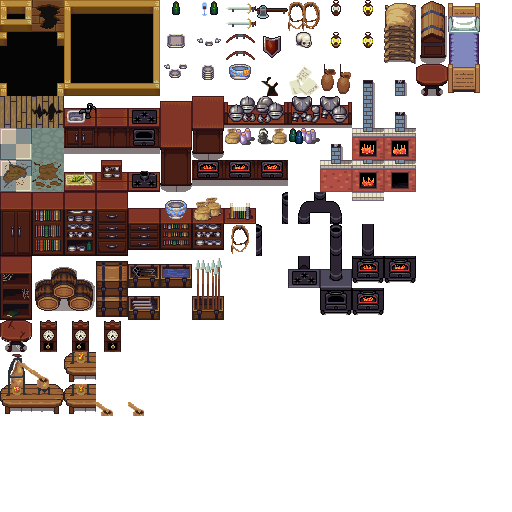
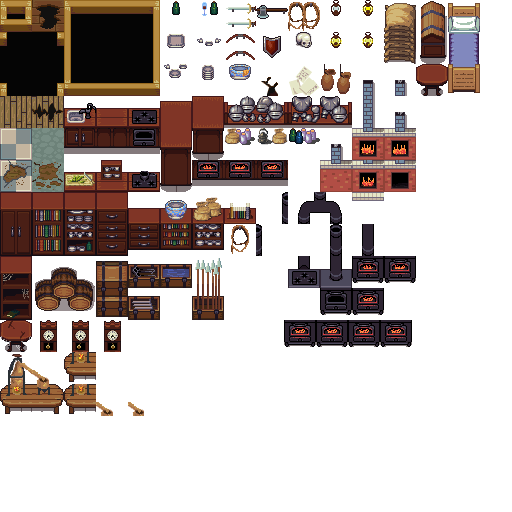
more studd

Changed region(s): [[0.5312, 0.625, 0.8125, 0.6875]]

diff --git a/js/Game.js b/js/Game.js
@@ -2,8 +2,23 @@ var BurgerBarrage = BurgerBarrage || {};
 
 BurgerBarrage.Game = function(){};
 
-const spaceBarListener = 
+const startingInventory = {
+  uncookedMeat: false,
+  lettuce: false,
+  cheese: false,
+  ketchup: false,
+  bun: false,
+  cookedMeat: false,
+  cookPercent: 0
+};
 
+const generateBool = () => {
+  if (Math.round(Math.random())) {
+    return true;
+  } else {
+    return false;
+  }
+}
 BurgerBarrage.Game.prototype = {
   create: function(){
     this.map = this.game.add.tilemap('map');
@@ -12,15 +27,27 @@ BurgerBarrage.Game.prototype = {
     this.blockedLayer = this.map.createLayer('blockedLayer');
     this.map.setCollisionBetween(1, 200, true, 'blockedLayer');
     this.backgroundLayer.resizeWorld();
-    this.inventory = {};
+    //starting goal
+    this.goal = {}
+    this.generateGoal();
+    //points
+    this.points = 0;
+    //initialize inventory
+    
+    this.inventory = {...startingInventory};
     //create items
-    this.createItems()
+    this.createItems();
     
     //create hole
     const holeObj = this.findObjectsByType('hole', this.map, 'objectsLayer');
     this.hole = this.game.add.sprite(holeObj[0].x - 12, holeObj[0].y - 34, 'hole');
     this.game.physics.arcade.enable(this.hole);
-    console.log(this.hole);
+
+    //create stove
+    const stoveObj = this.findObjectsByType('stove', this.map, 'objectsLayer');
+    this.stove = this.game.add.sprite(stoveObj[0].x, stoveObj[0].y, 'stove');
+    this.game.physics.arcade.enable(this.stove);
+
 
     //player
     const playerObj = this.findObjectsByType('playerStart', this.map, 'objectsLayer');
@@ -35,7 +62,6 @@ BurgerBarrage.Game.prototype = {
     //create items
     this.items = this.game.add.group();
     this.items.enableBody = true;
-    let item;    
     let result = this.findObjectsByType('item', this.map, 'objectsLayer');
     result.forEach(function(element){
       this.createFromTiledObject(element, this.items);
@@ -59,30 +85,34 @@ BurgerBarrage.Game.prototype = {
   },
   update: function(){
     //Movement
-    this.player.body.velocity.y = 0;
-    this.player.body.velocity.x = 0;
+    let speedX = 0;
+    let speedY = 0;
     if (this.cursors.up.isDown) {
-      this.player.body.velocity.y -= 100;
+      speedY -= 100;
     }
     if (this.cursors.down.isDown) {
-      this.player.body.velocity.y += 100;
+      speedY += 100;
     }
     if (this.cursors.left.isDown) {
-      this.player.body.velocity.x -= 100;
+      speedX -= 100;
     }
     if (this.cursors.right.isDown) {
-      this.player.body.velocity.x += 100;
+      speedX += 100;
     }
+    
     if (this.cursors.space.isDown) {
-      this.player.body.velocity.y *= 2;
-      this.player.body.velocity.x *= 2;
+      //Power up!!!!
     }
+    this.player.body.velocity.y = speedY * multiplier;
+    this.player.body.velocity.x = speedX * multiplier;
     //player collision
     this.game.physics.arcade.collide(this.player, this.blockedLayer);
     //Pickup items
     this.game.physics.arcade.overlap(this.player, this.items, this.collect, null, this);
     //drop burger in hole
     this.game.physics.arcade.overlap(this.player, this.hole, this.dropBurger, null, this);
+    //cook dat meat
+    this.game.physics.arcade.overlap(this.player, this.stove, this.cookMeat, null, this);
   },
     collect: function(player, item){
       const name = item.key;
@@ -92,8 +122,46 @@ BurgerBarrage.Game.prototype = {
         item.destroy();
       }
     },
-    dropBurger: function(player, hole){
-      //
-      console.log("nc")
+    dropBurger: function(){
+      if (this.inventory.cookedMeat && this.inventory.bun) {
+        this.inventory = {...startingInventory};
+        console.log(this.inventory);
+        this.points += 100;
+        console.log(this.points);
+      }
+    },
+    cookMeat: function(){
+      if (this.inventory.uncookedMeat) {
+        this.inventory.cookPercent++;
+        console.log(this.inventory.cookPercent)
+        if (this.inventory.cookPercent > 100) {
+          this.inventory.uncookedMeat = false;
+          this.inventory.cookedMeat = true;
+          this.inventory.cookPercent = 0;
+        }
+      }
+    },
+    generateGoal: function(){
+      this.goal = {
+        lettuce: generateBool(),
+        cheese: generateBool(),
+        ketchup: generateBool(),
+        bun: true,
+        cookedMeat: true
+      }
+      console.log(this.goal);
+    },
+    checkObjectEquality: function(inventory, goal){
+      for (var ingredient in goal) {
+        if (inventory[ingredient] !== goal[ingredient]) {
+          return false
+        }
+      }
+      return true;
+    },
+    checkGoal: function(inventory, goal){
+      if (this.checkObjectEquality(inventory, goal)) {
+        //
+      }
     }
 };

diff --git a/index.html b/index.html
@@ -8,7 +8,13 @@
 		<script type="text/javascript" src="js/phaser.min.js"></script>
 		<script type="text/javascript" src="js/Boot.js"></script>
 		<script type="text/javascript" src="js/Preload.js"></script>
-		<script type="text/javascript" src="js/Game.js"></script>
+    <script type="text/javascript" src="js/Game.js"></script>
+    <script>
+      let multiplier = 4;
+      const ACTIVATETHECHEATS = () => {
+        multiplier = 4;
+      }
+    </script> 
 
 		<style>
 		  body {

diff --git a/js/preload.js b/js/preload.js
@@ -19,6 +19,7 @@ BurgerBarrage.Preload.prototype = {
     this.load.image('cookedMeat', 'assets/images/cookedMeat.png');
     this.load.image('player', 'assets/images/chef.png')
     this.load.image('hole', 'assets/images/hole.png')
+    this.load.image('stove', 'assets/images/stove.png')
   },
   create: function(){
     this.state.start('Game');
